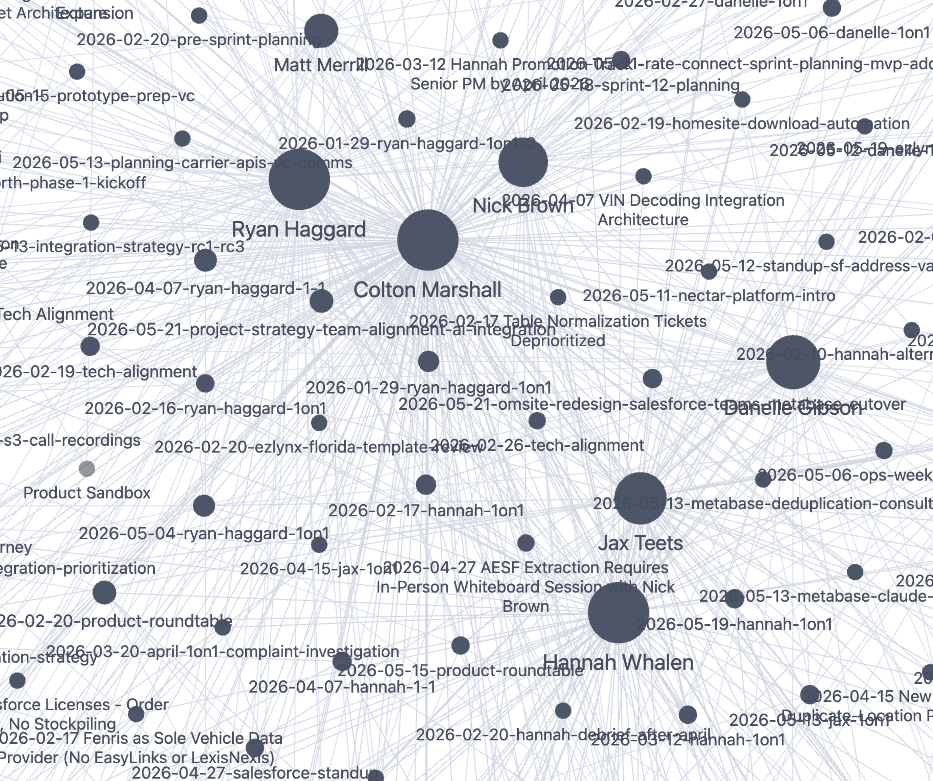
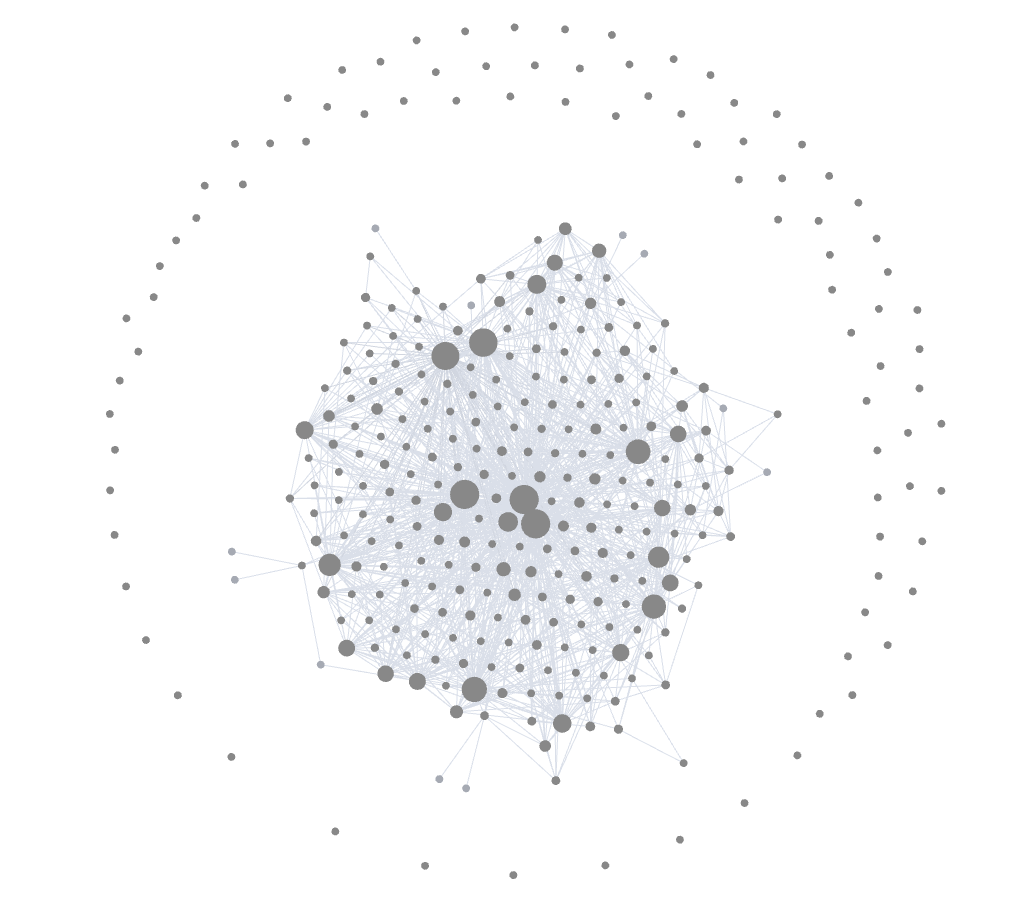
Updated project frontmatter and changed obsidian graph photo in readme

diff --git a/CLAUDE.md b/CLAUDE.md
@@ -205,7 +205,7 @@ Project:
 ```yaml
 type: project
 status: active | blocked | done
-owner: "[[Name]]"
+lead: "[[Name]]"            # day-to-day project lead; can be the user or any team member
 stakeholders: ["[[Name]]"]
 start_date: YYYY-MM-DD
 phase: [current phase label]

diff --git a/templates/project.template.md b/templates/project.template.md
@@ -10,7 +10,7 @@
 | Field | Value |
 |-------|-------|
 | Status | Active / Blocked / Done |
-| Owner | [Name] |
+| Lead | [Name] |
 | Phase | [Current phase or milestone] |
 | Started | YYYY-MM-DD |
 | Target | YYYY-MM-DD or TBD |
